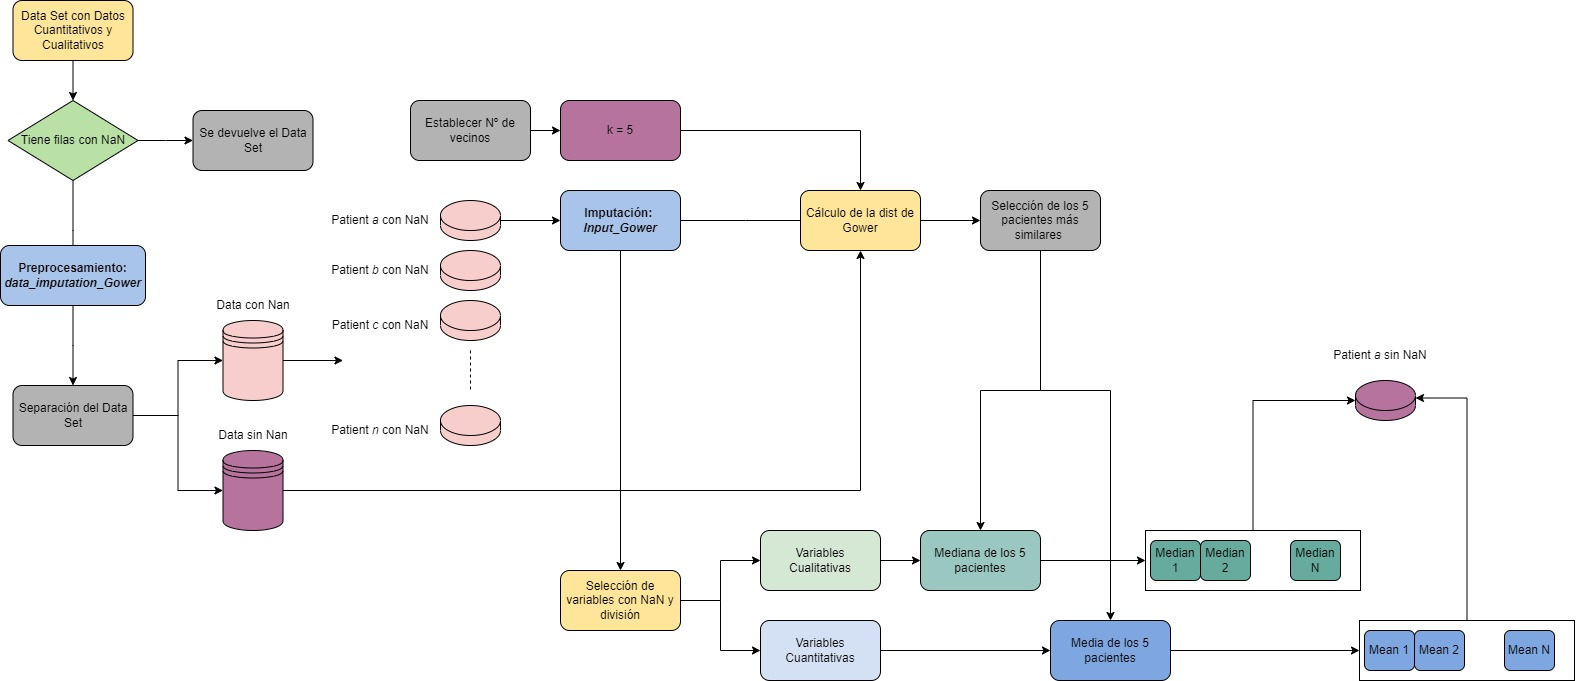
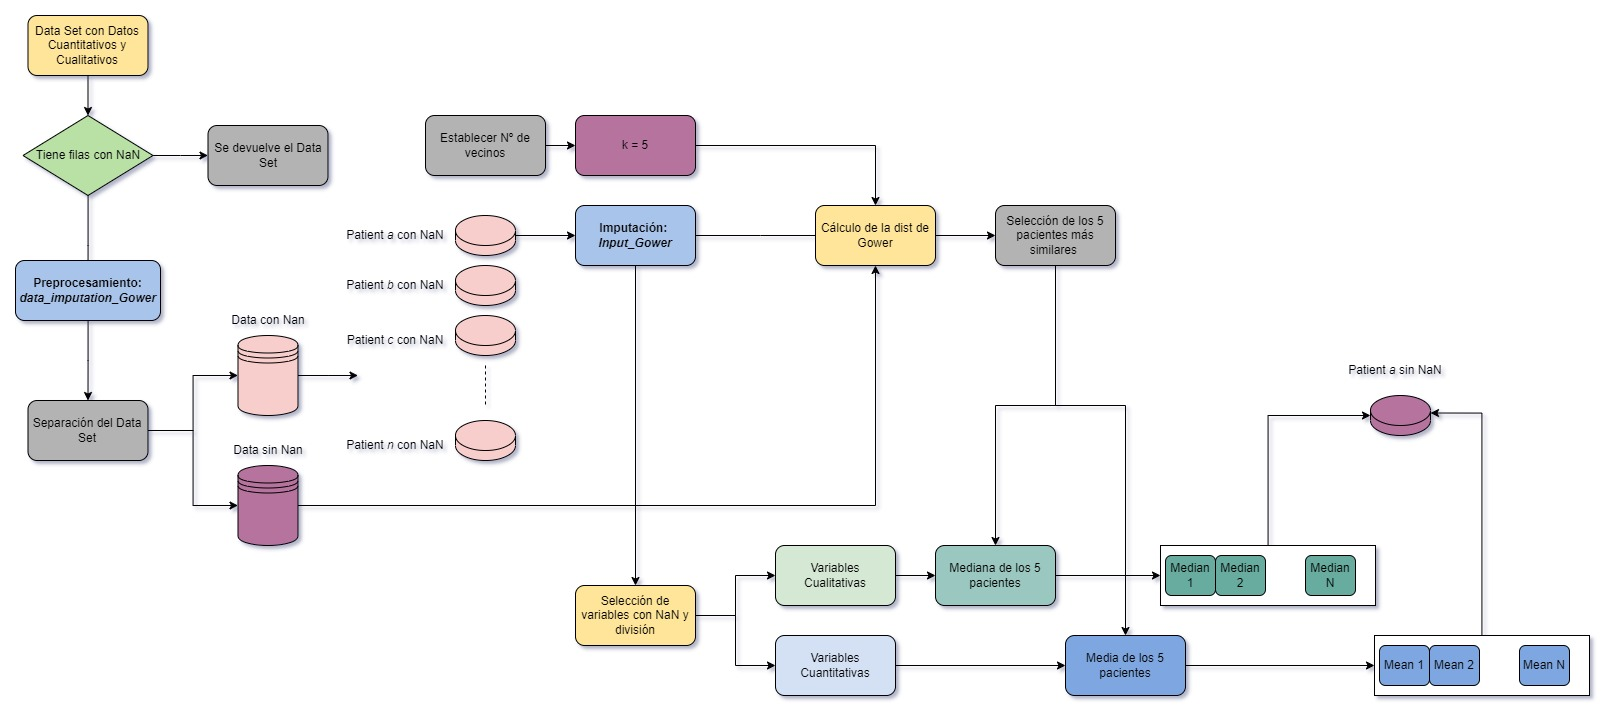
Data information

diff --git a/lib/chapter3.tex b/lib/chapter3.tex
@@ -93,7 +93,7 @@ En la siguiente Tabla \ref{tabla:cuali_cuanti} se muestra la división entre var
 
 En este apartado se describirá el procesamiento de los datos realizado para el presente estudio.
 
-\subsubsection{Limpieza de Datos}
+\subsubsection{Limpieza de Datos}\label{sec:limpieza_datos}
 
 En primer lugar se ha realizado una limpieza de datos. Esta limpieza de datos ha consistido en varios pasos: 
 
@@ -104,7 +104,7 @@ En primer lugar se ha realizado una limpieza de datos. Esta limpieza de datos ha
     \item \textbf{Variables No Relevantes:} Eliminar variables que no aportan información relevante para el estudio.
 \end{enumerate}
 
- \paragraph*{Validación de Archivos}
+ \paragraph{Validación de Archivos}
 
 Por parte del hospital se han recopilado 2 archivos de datos diferentes. Estos archivos de datos son:
 
@@ -133,7 +133,7 @@ Y las primeras columnas del Archivo de Datos de Pacientes son las siguientes:
 
 Este contraste se ha automatizado de manera que para futuros estudios se pueda realizar de manera rápida y eficiente. El resultado de este contraste ha sido que los datos de los pacientes contenidos en el Archivo de Datos de Pacientes están contenidos en la Carpeta de Datos de Monitorización. Existían algunas desviaciones en los nombres pero fuero corregidas. Por lo tanto, no existen pacientes duplicados y se puede continuar con el estudio.
 
-\paragraph*{Cálculo de Medias}
+\paragraph{Cálculo de Medias}
 
 En el Archivo de Datos de Pacientes venían calculadas las medias de \textit{Frecuencia Respiratoria} y \textit{Flujo de Oxígeno} cada hora. Estas medias han sido re-calculadas de manera automatizada para cada paciente y se han añadido al Archivo de Datos de Pacientes. Además de estas 2 medias se han hecho dos trasformaciones en los datos de \textit{Frecuencia Cardiaca} que se explicarán más tarde y se han calculado sus respectivas medias por hora. 
 
@@ -192,13 +192,13 @@ Estos valores se han calculado para todos los pacientes, como modo de ejemplo el
 \end{landscape}
 \restoregeometry 
 
-\paragraph*{Datos Faltantes}
+\paragraph{Datos Faltantes}
 
 Se ha realizado un estudio de los datos faltantes. Este estudio ha consistido en determinar que pacientes y que variables tenían un alto número de datos faltantes y eliminarlos del estudio. 
 
 \subparagraph*{Variables con Datos Faltantes} 
 
-En la siguiente Imagen \ref{fig:missing-descriptive} se muestra la distribución de datos faltantes de las variables referenciadas en la Tabla \ref{tabla:cuali_cuanti}. 
+En la siguiente Figura~\ref{fig:missing-descriptive} se muestra la distribución de datos faltantes de las variables referenciadas en la Tabla \ref{tabla:cuali_cuanti}. 
  
 \begin{figure}[H]
     \centering
@@ -398,13 +398,13 @@ Cada imputación se hará de una manera diferente. En el primer caso ya que es n
 
 En el caso de la Frecuencia Cardiaca se realizará una transformación a la cual más tarde se le imputarán datos y se utilizarán como parte del \textit{Estudio 2}. Se hablará de esta transformación más adelante en el ******. La imputación de datos se hará una vez realizada la transformación, es decir; la transformación de los datos no se realizará una vez imputados los datos a los valores de \textit{Frecuencia Cardiaca} de cada paciente válido para el estudio.
 
-\paragraph*{Distancia de Gower}\label{sec:gower_distance}
+\paragraph{Distancia de Gower}\label{sec:gower_distance}
 
 La \textit{distancia de Gower} puede utilizarse para medir la diferencia entre dos registros que pueden contener una combinación de datos lógicos, numéricos, categóricos o textuales. La distancia es siempre un número comprendido entre 0 (idéntico) y 1 (máxima diferencia). La \textit{distancia de Gower} se calcula como el promedio de las disimilitudes parciales entre individuos. Cuanto menor es el número, más similares son los individuos.
 
 El coeficiente de disimilitud como lo define Gower en su artículo puede ser utilizado para medir la distancia entre dos puntos en un espacio multidimensional y puede ser calculado utilizando diferentes métodos; dependiendo del tipo de datos y del espacio en el que se encuentran los puntos. (~\cite{Gower1971}~)
 
-La imputación de datos se realiza según el código programado que se muestra en la Sección:~\ref{sec:codigo-input-gower-fun}. El código funciona de la siguiente forma: 
+La imputación de datos se realiza según el código programado que se muestra en la Sección:~\ref{sec:codigo-input-gower}. El código funciona de la siguiente forma: 
 \begin{enumerate}
     \item Antes de nada es necesario seleccionar e introducir en la función los siguientes parámetros formales: 
     \begin{itemize}
@@ -436,7 +436,7 @@ El diagrama de flujo dónde se explica lo anteriormente descrito es el siguiente
 \begin{landscape}
     \begin{figure}[H]
         \centering
-        \includegraphics[scale = 0.65]{./img/gower-diagram.jpg}
+        \includegraphics[scale = 0.5]{./img/gower-diagram.jpg}
         \caption{Diagrama de Flujo Imputación por el método de la distancia de Gower}
         \label{fig:gower-diagram}
     \end{figure}
@@ -446,27 +446,59 @@ El diagrama de flujo dónde se explica lo anteriormente descrito es el siguiente
 
 
 
-\paragraph*{k-Nearest Neighbor Imputation}\label{sec:k_Nearest Neighbor_Imputation}
+\paragraph{k-Nearest Neighbor Imputation}\label{sec:k_Nearest Neighbor_Imputation}
 
-El método de \textit{k-Nearest Neighbor Imputation} al igual que la distancia de Gower es un método de imputación de datos que se basa en la distancia entre los pacientes. Este método se basa en la idea de que los pacientes que son similares tienen valores similares en las variables que se quieren imputar. Se utilizarán los $k = 10$ pacientes más parecidos para imputar los datos faltantes. En este caso se ha utilizado el paquete \texttt{DMwR2} de \texttt{R} para realizar la imputación.~(\cite{DMwR2}).
+El método de \textit{k-Nearest Neighbor Imputation} al igual que la distancia de Gower es un método de imputación de datos que se basa en la distancia entre los pacientes. Este método se fundamenta en la premisa de que los pacientes que son similares presentan valores parecidos en las variables que se desean imputar. En este caso se ha utilizado el paquete \texttt{DMwR2} de \texttt{R} para realizar la imputación.~(\cite{DMwR2}).
 
-La imputación \textit{k-Nearest Neighbor Imputation} es un método utilizado para rellenar los valores que faltan en un conjunto de datos utilizando los valores de los k vecinos más próximos. Este método es especialmente útil para variables numéricas, en las que los valores que faltan pueden sustituirse por la media de los k vecinos más próximos.
+La imputación \textit{k-Nearest Neighbor Imputation} es un método utilizado para rellenar los valores que faltan en un conjunto de datos utilizando los valores de los $k$ vecinos más próximos. Este método es especialmente útil para variables numéricas, en las que los valores que faltan pueden sustituirse por la media de los $k$ vecinos más próximos.
 
-La ventaja de este método respecto a la \textit{distancia de Gower} es que aparte de que ya viene construido el algoritmo de imputación en el paquete de Rstudio \textit{DMwR2} y no es necesario programarlo, es que solo se imputarán datos numéricos y para esta casuística es más adecuado.
+La ventaja de este método respecto a la \textit{distancia de Gower} es que aparte de que ya viene construido el algoritmo de imputación en el paquete de Rstudio \textit{DMwR2}, es que solo se imputarán datos numéricos y para esta casuística es método más adecuado y programado orientado a este objetivo.
 
-Un ejemplo de esta ventaja es el estudio \textit{Missing Data Imputation for Geolocation-based Price Prediction Using KNN MCF Method},~(\cite{Sanjar2020}). Este estudio utilizó la imputación \textit{k-Nearest Neighbor Imputation}, esto permitió mejorar la precisión del modelo y evitar el problema de sobreajuste. En general, el método propuesto logró una precisión de predicción del $92,01$ \% ayudándose del algoritmo de clasificación \textit{Random Forest}. 
+Un ejemplo que ilustra este enfoque de imputación se encuentra en el estudio titulado \textit{Missing Data Imputation for Geolocation-based Price Prediction Using KNN MCF Method} \cite{Sanjar2020}. En este trabajo, se empleó la técnica de imputación conocida como \textit{k-Nearest Neighbor Imputation}, lo cual permitió mejorar significativamente la precisión del modelo y evitar problemas de sobreajuste. El método propuesto alcanzó una precisión de predicción del $92.01$\%, con la asistencia del algoritmo de clasificación \textit{Random Forest}.
 
-La función usada de imputación será la siguiente:
+La función usada de imputación usará los $5$ vecinos más cercanos y el método de imputación es el de la media ponderada de los vecinos más cercanos \textit{weighAvg}. La función de imputación una vez que identifica los k vecinos más cercanos, calculan los pesos para cada uno de ellos en función de la distancia a la observación original que tiene el valor al faltante. Los vecinos más cercanos tienen mayor influencia a la hora de la imputación debido a sus mayores pesos. La media ponderada se utiliza como el valor imputado para el dato faltante en la observación original. La función usada para la imputación es la siguiente referenciada en el Código~\ref{cod:snipet-knn-impute}:
 
 \begin{code}[H]
 \begin{lstlisting}
-    knnImputation(data, k = 10, scale = T, meth = "weighAvg",
+    knnImputation(data, k = 5, scale = T, meth = "weighAvg",
     distData = NULL)
 \end{lstlisting}
 \caption{Código KNN Impute Función}
 \label{cod:snipet-knn-impute}
 \end{code}
 
+Respecto a los valores imputados mediante este método serán los valores faltantes de las \textit{Series Temporales} referenciados en la Tabla~\ref{tabla:variables_estudio} y sus respectivas transformaciones sobre las que más tarde se hablará de ellas en el apartado ****. 
+
+A la hora de imputar datos cabe diferenciar entre los dos Estudios realizados. Cada estudio considera unos pacientes en un intervalo de tiempo diferente. Debido a esta casuística se ha decidido imputar los datos de los pacientes de cada estudio por separado. Es decir, se imputarán los datos de los pacientes del \textit{Estudio 1} por un lado y los del \textit{Estudio 2} por otro.
+
+\subparagraph*{Diagrama de imputación de datos de \textit{Series Temporales} por el método de imputación \textit{k-Nearest Neighbor Imputation}}\label{sec:diagrama-imputacion-knn}
+
+Cada paciente será estudiado de manera individualizada. Esto implica que los datos de monitorización de cada \textit{Series Temporal} en referencia a cada paciente se tienen que dividir en diferentes en franjas horarias para así realizar la imputación de datos. Estas franjas horarias dependerá del tipo de estudio. En el \textit{Estudio 1} las franjas horarias serán $40$ de $36$ minutos cada una lo que hace un total de $1440$ minutos que son justamente las $24$ horas de estudio, Figura~\ref{fig:knn-diagram-e1}. En el \textit{Estudio 2} las franjas horarias serán $20$ de $24$ minutos lo que hace un total de $480$ minutos que son justamente las $8$ horas de estudio, Figura~\ref{fig:knn-diagram-e2}.
+
+Una vez que se han dividido los datos de cada paciente en franjas horarias se imputarán los datos de cada franja horaria por separado. Es decir, se imputarán los datos de la primera franja horaria de cada paciente en relación con las 5 más cercanas, después los de la segunda, etc, así hasta llegar a la última franja horaria de cada paciente. Es obvio que solo se imputarán datos de las franjas horarias que tengan datos faltantes y se utilizarán las $5$ franjas horarias más cercanas que tengan datos en el minuto que se quiera imputar.
+
+\newpage
+\thispagestyle{empty}
+% Se modifica la geometría (los márgenes) de la página y se coloca en formato horizontal:
+\newgeometry{top=10mm, bottom=10mm, left=12mm, right=12mm}
+\begin{landscape}
+    \begin{figure}[H]
+        \centering
+        \includegraphics[scale = 0.5]{./img/knn-diagram-e1.jpg}
+        \caption{Diagrama de Flujo Imputación por el método de \textit{k-Nearest Neighbor Imputation} según el \textit{Estudio 1}}
+        \label{fig:knn-diagram-e1}
+    \end{figure}
+    \begin{figure}[H]
+        \centering
+        \includegraphics[scale = 0.5]{./img/knn-diagram-e2.jpg}
+        \caption{Diagrama de Flujo Imputación por el método de \textit{k-Nearest Neighbor Imputation} según el \textit{Estudio 2}}
+        \label{fig:knn-diagram-e2}
+    \end{figure}
+% Se devuelve el formato y la geometría de la página a sus valores originales:
+\end{landscape}
+\restoregeometry 
+
+\subsubsection{Transformaciones de los Datos}\label{sec:transformaciones-de-datos}
 
 
 

diff --git a/lib/chapter4.tex b/lib/chapter4.tex
@@ -13,7 +13,7 @@ Se ha utilizado un enfoque de investigación cuantitativa para examinar la progr
 
 Idealmente se ha planteado que al tener 3 momentos de valoración; en las 8 primeras horas, entre las 8 y 16 horas y entre las 16 y 24 horas, se realicen 3 modelos diferentes para los diferentes momentos y que estos modelos permitan valorar la evolución del paciente, es decir si va a necesitar OAF o no va a necesitarla al final de estos intervalos.
 
-En este estudio este planteamiento se muestra limitado puesto que más de la mitad de pacientes que se han considerado válidos para el estudio (según el criterio valid_patient_2 adoptado en el apartado ***) que necesitan OAF la requieren al ingreso o en las primeras 8 horas (De los 16 pacientes válidos que presentan deterioro 10 pacientes; 5 al ingreso y 5 antes de las 8 primeras horas). Esto supondría eliminar de la ecuación estos 10 pacientes y solo tener en cuenta a los 6 restantes para valorar las 8 primeras horas y solo a 2 para valorar las 16 primeras. 
+En este estudio este planteamiento se muestra limitado puesto que más de la mitad de pacientes que se han considerado válidos para el estudio (según el criterio valid_patient_2 adoptado en el apartado ***) que necesitan OAF la requieren al ingreso o en las primeras 8 horas (De los 16 pacientes válidos que presentan deterioro 10 pacientes; 5 al ingreso y 5 antes de las 8 primeras horas). Esto supondría eliminar de la ecuación estos 10 pacientes y solo tener en cuenta a los 6 restantes para valorar las 8 primeras horas y solo a 2 para valorar las 16 primeras.
 
 \begin{figure}[H]
     \centering
